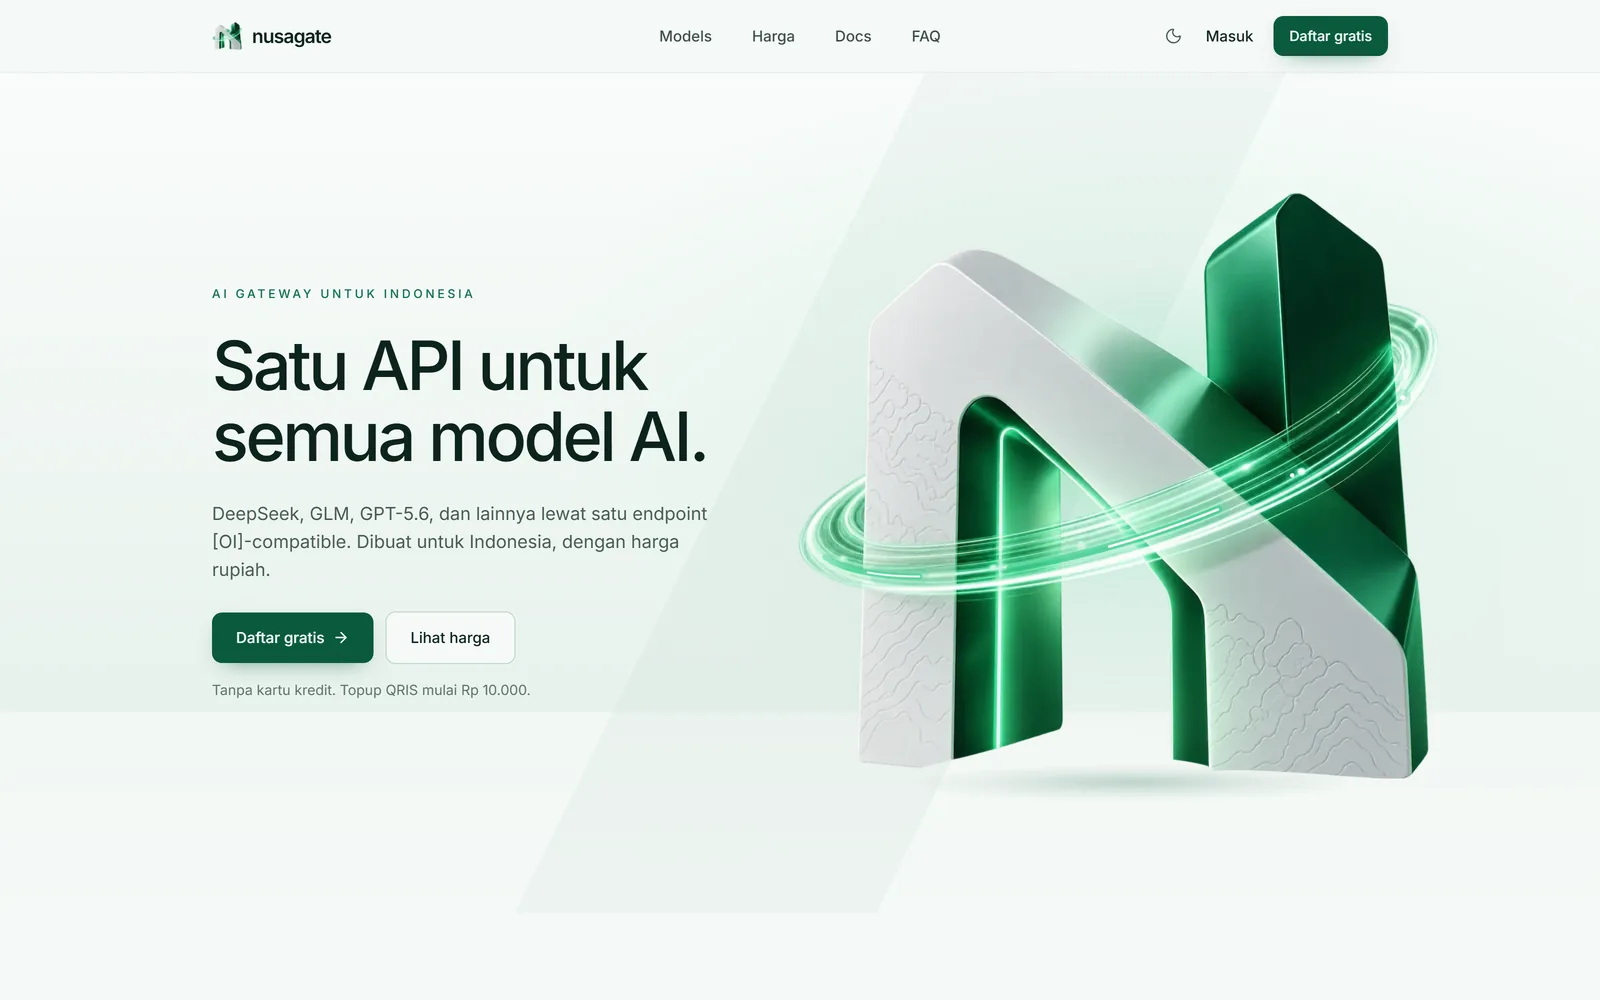
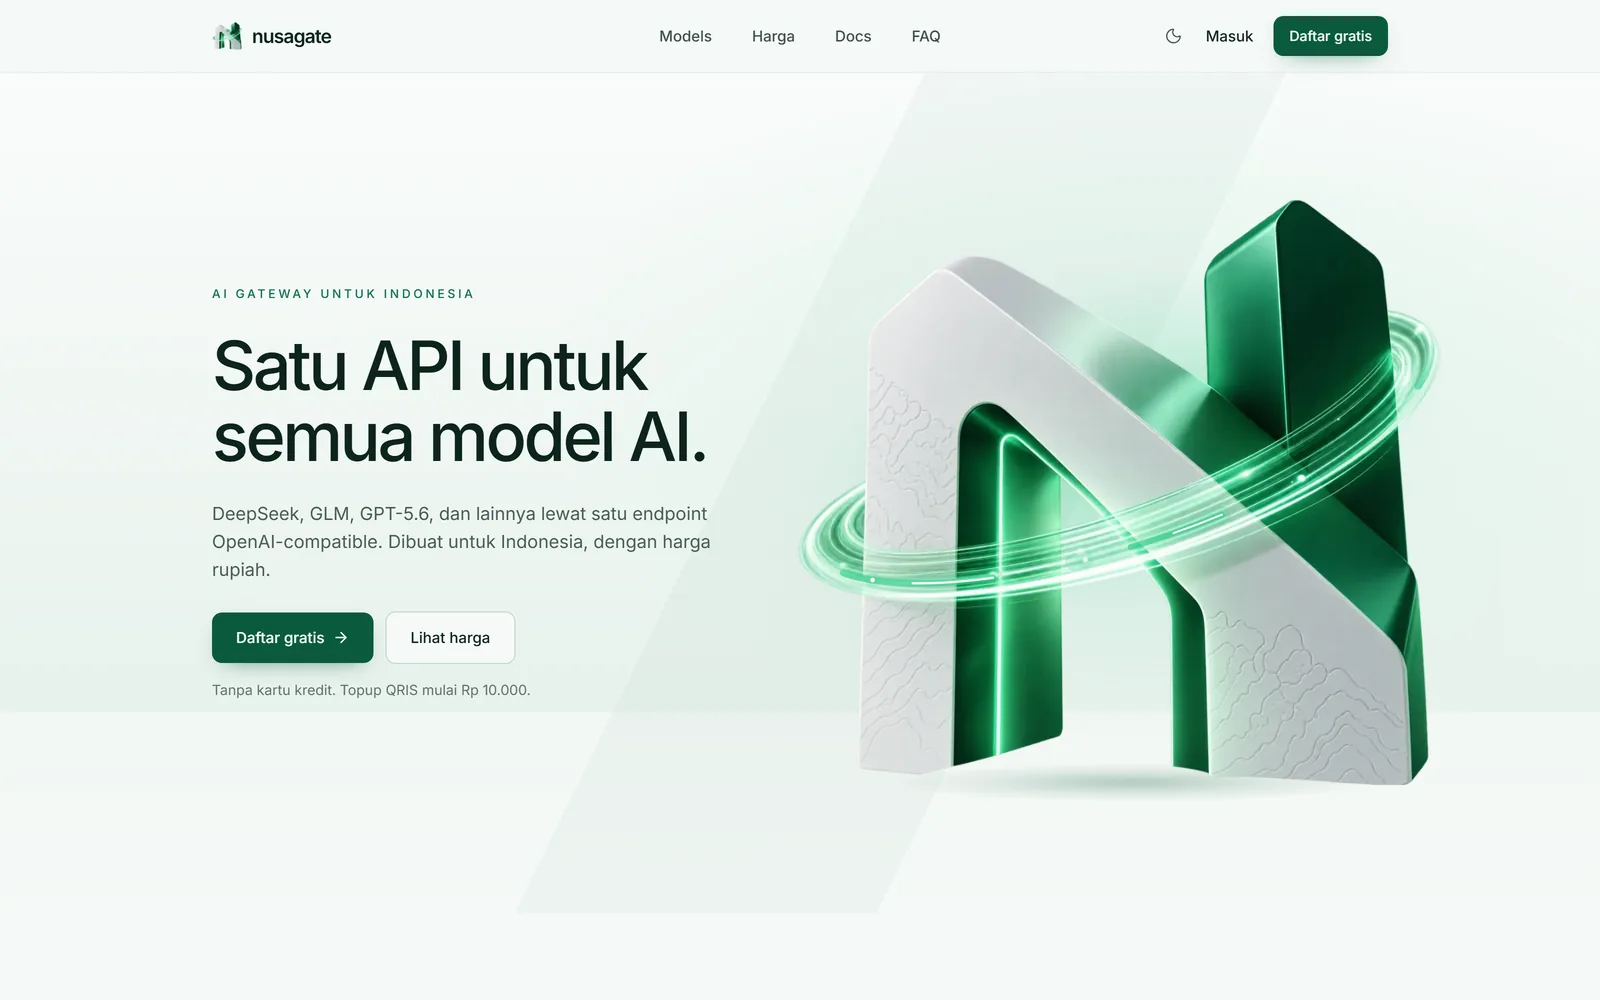
feat(projects): bring the NusaGate card up to date
The copy still described the gateway as a bare API with QRIS top-ups.
Since then it grew prepaid Coding Plans, rupiah pricing at 55-77% under
the vendors' official rates, an explicit 402 on an empty balance, and a
subsidised credit pool that was claimed ~6,900 times and drained inside
a day. Card now says what the product actually does, with traction
figures read from the production database on 30 Sep 2026.

Cover recaptured at the card's own 16:10 ratio.

diff --git a/lib/content.ts b/lib/content.ts
@@ -205,7 +205,7 @@ export const en = {
       title: "NusaGate",
       kind: "AI Gateway",
       summary:
-        "A commercial AI gateway with a single API for DeepSeek, GLM, and GPT models: local QRIS top-ups, per-model pricing, a wallet with atomic deduction, and production Midtrans payments.",
+        "A commercial AI gateway priced in rupiah: one drop-in endpoint fronting ten models from DeepSeek, GLM, and Google at 55-77% below the vendors' own token rates. QRIS top-ups from Rp 10k settle on Midtrans webhooks, balance is deducted atomically per request, prepaid Coding Plans hand back more API credit than they cost, and a drained balance returns 402 instead of 500. Measured on 30 Sep 2026: 81 accounts, 30 active, 36,500+ requests, Rp 536k collected, and a 1-billion-token subsidised pool claimed 6,900 times and exhausted within a day.",
       tags: ["Next.js", "Postgres", "Midtrans", "Payments"],
       year: "2026",
       image: nusagateShot,
@@ -414,7 +414,7 @@ export const id: typeof en = {
       title: "NusaGate",
       kind: "AI Gateway",
       summary:
-        "Gateway AI komersial dengan satu API untuk model DeepSeek, GLM, dan GPT: top-up QRIS lokal, harga per model, wallet dengan deduksi atomik, dan pembayaran Midtrans produksi.",
+        "Gateway AI komersial dengan harga rupiah: satu endpoint drop-in untuk sepuluh model DeepSeek, GLM, dan Google, 55-77% lebih murah dari harga token resmi vendornya. Topup QRIS mulai Rp10rb masuk otomatis lewat webhook Midtrans, saldo dipotong atomik per request, Coding Plan prabayar mengembalikan kredit API lebih besar dari harganya, dan saldo yang habis dijawab 402 bukan 500. Terukur per 30 Sep 2026: 81 akun, 30 aktif, 36.500+ request, Rp536rb terkumpul, dan pool kredit subsidi 1 miliar token diklaim 6.900 kali lalu habis dalam sehari.",
       tags: ["Next.js", "Postgres", "Midtrans", "Pembayaran"],
       year: "2026",
       image: nusagateShot,
